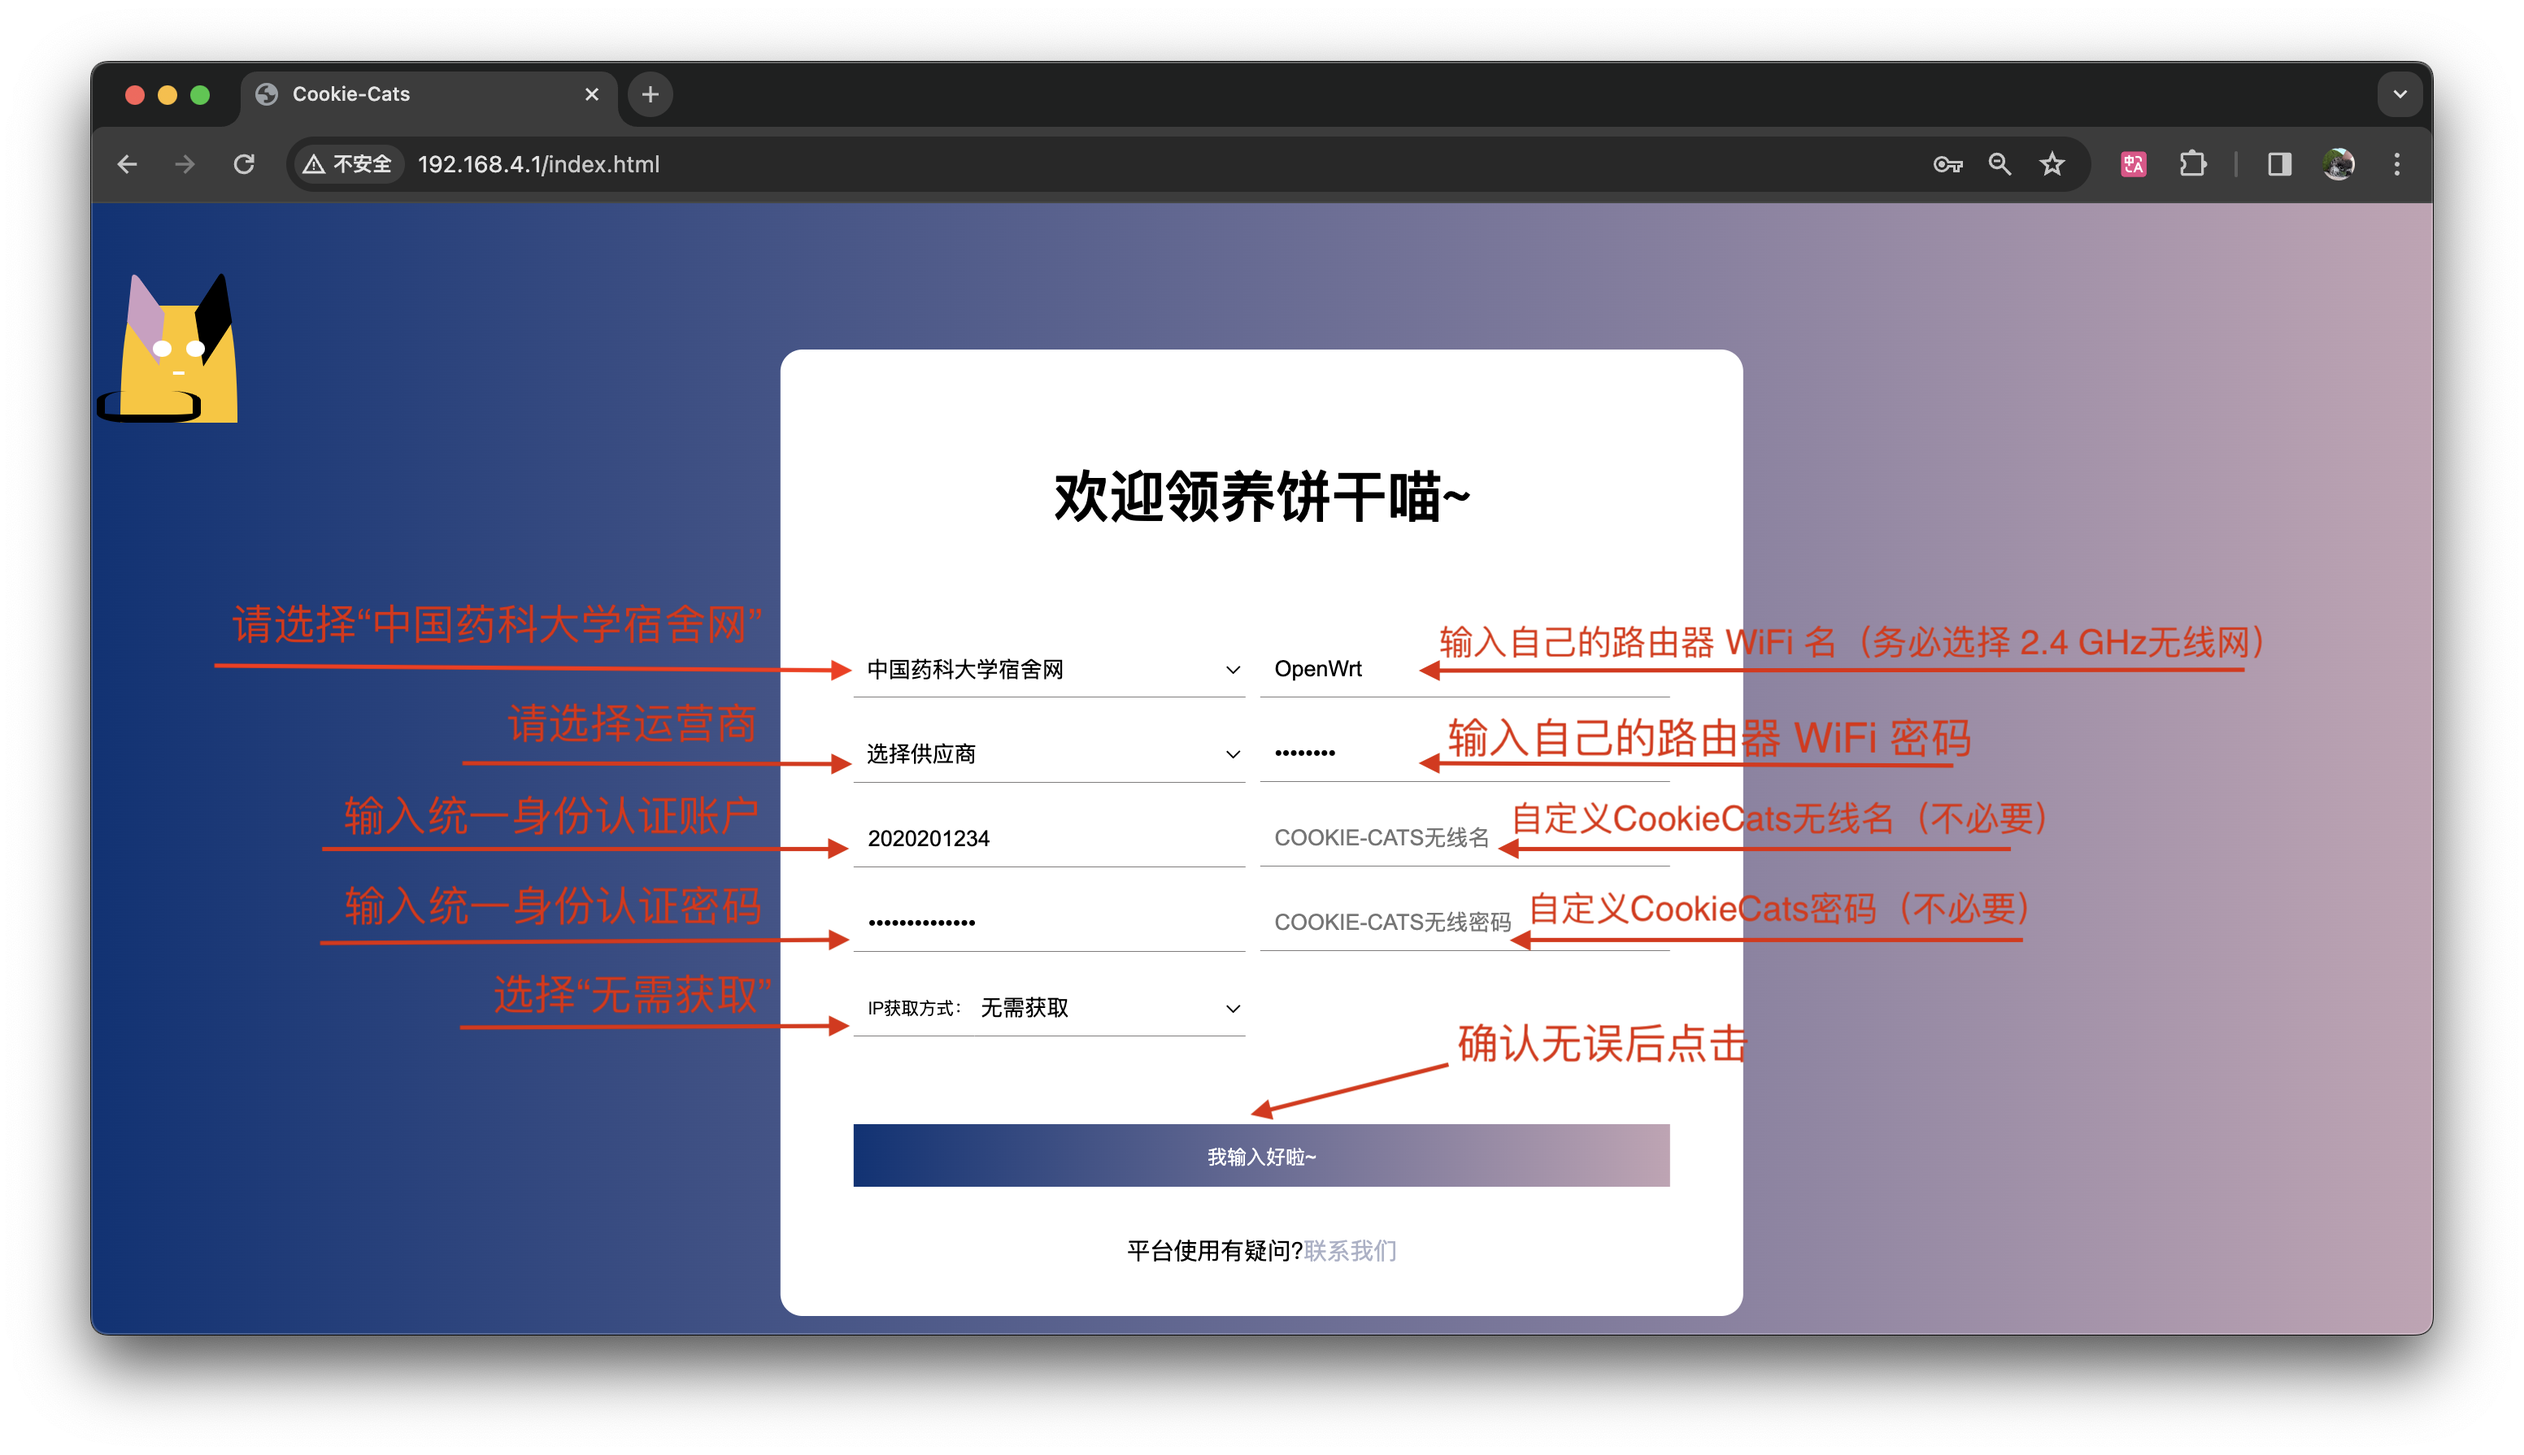
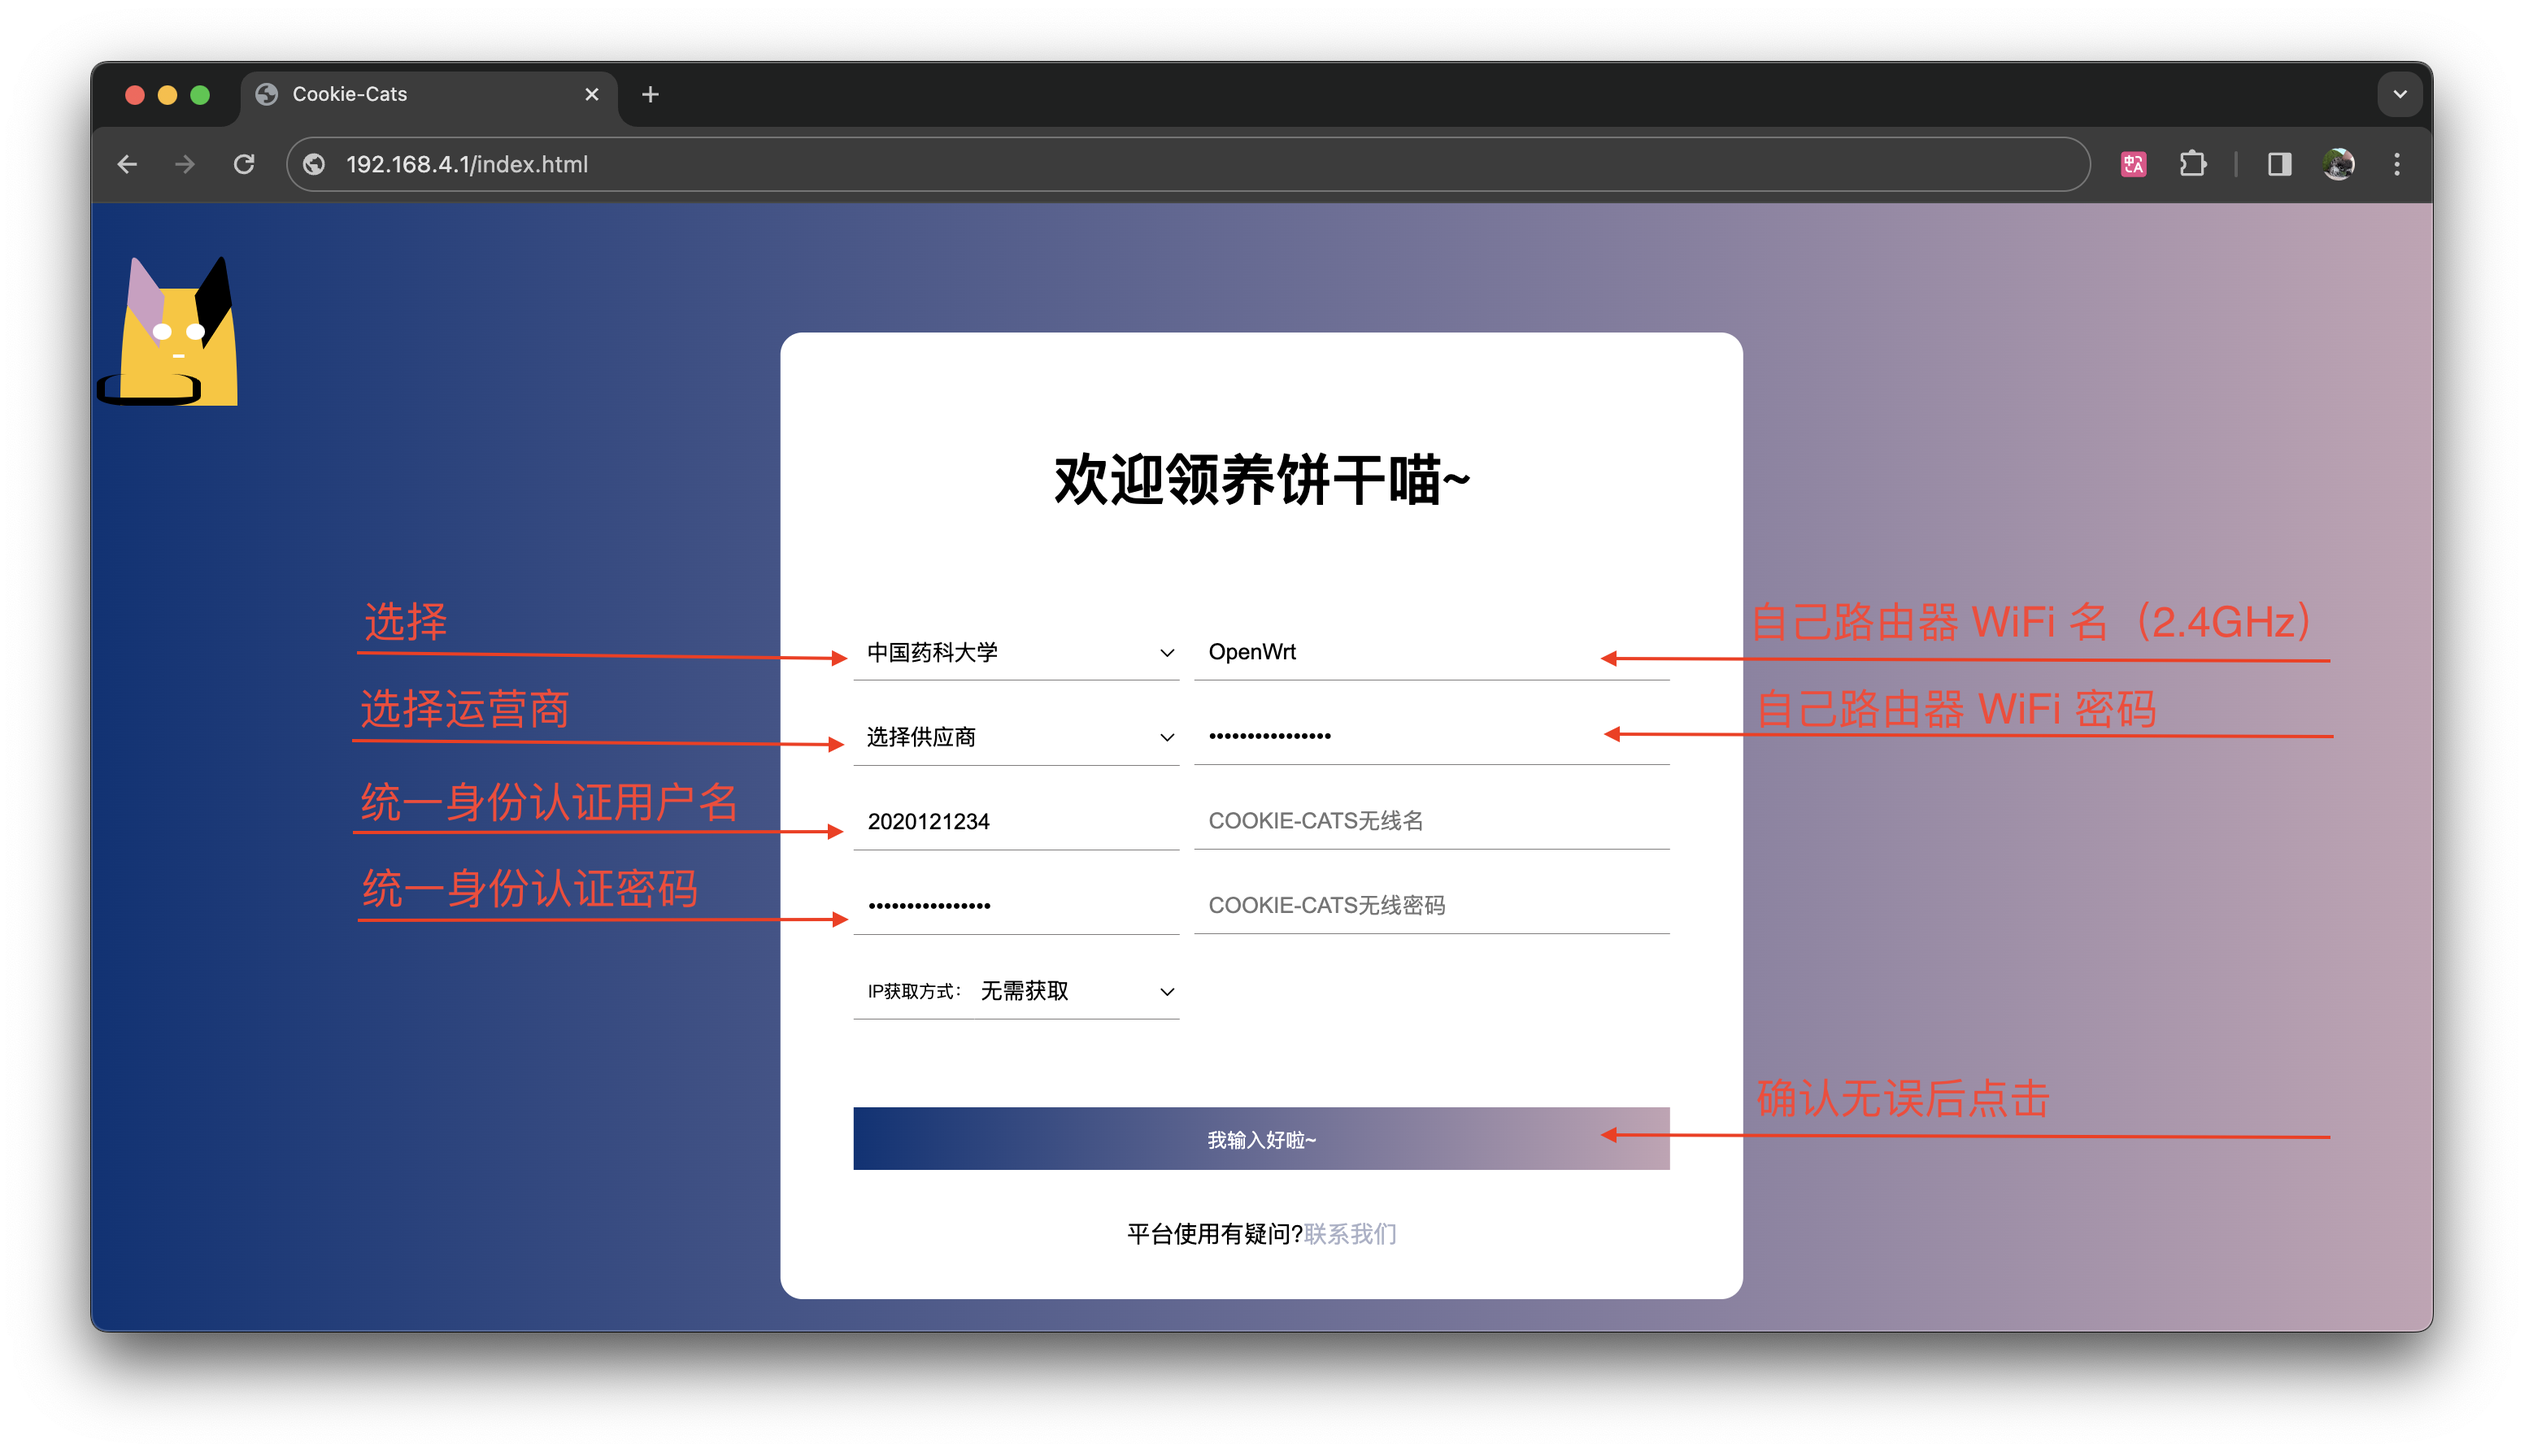
将中国药科大学宿舍网/公共网合并；改用CPU短名称

diff --git a/Cookie-Cats/auth.cpp b/Cookie-Cats/auth.cpp
@@ -73,41 +73,35 @@ String ICACHE_FLASH_ATTR getDrcomIp(String apiURL, WiFiClient &wifiClient) {
   return IP;
 }
 
-// 中国药科大学公共网
-bool ICACHE_FLASH_ATTR authChinaPharmaceuticalUniversityPublic(Configuration &config, WiFiClient &wifiClient) {
-  // 获取 IP
-  String IP;
-  if (config.IP_Obtain_Method.first == "unnecessary") {  // 如果设置为 unnecessary，则从 Drcom 的 API 获取
-    String apiURL = "http://192.168.199.21/drcom/chkstatus?callback=dr1002";
-    IP = getDrcomIp(apiURL, wifiClient);
-  } else {
-    IP = config.IP_Obtain_Method.second;
+// 中国药科大学
+bool ICACHE_FLASH_ATTR authCPU(Configuration &config, WiFiClient &wifiClient) {
+  if (config.carrier == "SchoolNetwork") {                 // 中国药科大学校园网
+    String IP;                                             // 获取 IP
+    if (config.IP_Obtain_Method.first == "unnecessary") {  // 如果设置为 unnecessary，则从 Drcom 的 API 获取
+      String apiURL = "http://192.168.199.21/drcom/chkstatus?callback=dr1002";
+      IP = getDrcomIp(apiURL, wifiClient);
+    } else {
+      IP = config.IP_Obtain_Method.second;
+    }
+    // 构造认证 URL
+    String authURL = "http://192.168.199.21:801/eportal/?c=Portal&a=login&callback=dr1004&login_method=1&user_account=,0," + config.username + "&user_password=" + config.password + "&wlan_user_ip=" + IP + "&wlan_user_mac=000000000000&jsVersion=3.3.3&v=10379";
+    return drcomWebAuth(authURL, wifiClient);
+  } else {                                                      // 中国药科大学宿舍网
+    String carrier;                                             // 转换运营商到认证格式
+    if (config.carrier == "ChinaTelecom") carrier = "telecom";  // 已在读取 config 时做过判断，carrier 只能为 "ChinaTelecom", "ChinaUnicom", "ChinaMobile", "SchoolNetwork", ""
+    else if (config.carrier == "ChinaUnicom") carrier = "unicom";
+    else if (config.carrier == "ChinaMobile") carrier = "cmcc";
+    String authURL = "http://172.17.253.3/drcom/login?callback=dr1003&DDDDD=" + config.username + "%40" + carrier + "&upass=" + config.password + "&0MKKey=123456&R1=0&R2=&R3=0&R6=1&para=00&v6ip=&terminal_type=2&lang=zh-cn&jsVersion=4.1.3&v=5336&lang=zh";
+    return drcomWebAuth(authURL, wifiClient);
   }
-  // 构造认证 URL
-  String authURL = "http://192.168.199.21:801/eportal/?c=Portal&a=login&callback=dr1004&login_method=1&user_account=,0," + config.username + "&user_password=" + config.password + "&wlan_user_ip=" + IP + "&wlan_user_mac=000000000000&jsVersion=3.3.3&v=10379";
-  return drcomWebAuth(authURL, wifiClient);
-}
-
-// 中国药科大学宿舍网
-bool ICACHE_FLASH_ATTR authChinaPharmaceuticalUniversityDormitory(Configuration &config, WiFiClient &wifiClient) {
-  String carrier;                                             // 转换运营商到认证格式
-  if (config.carrier == "ChinaTelecom") carrier = "telecom";  // 已在读取 config 时做过判断，carrier 只能为 "ChinaTelecom", "ChinaUnicom", "ChinaMobile", ""
-  else if (config.carrier == "ChinaUnicom") carrier = "unicom";
-  else if (config.carrier == "ChinaMobile") carrier = "cmcc";
-
-  // 构造认证 URL
-  String authURL = "http://172.17.253.3/drcom/login?callback=dr1003&DDDDD=" + config.username + "%40" + carrier + "&upass=" + config.password + "&0MKKey=123456&R1=0&R2=&R3=0&R6=1&para=00&v6ip=&terminal_type=2&lang=zh-cn&jsVersion=4.1.3&v=5336&lang=zh";
-  return drcomWebAuth(authURL, wifiClient);
 }
 
 // 自动认证
 // 警告：使用前需要判断 school、username、password 是否为空
 bool auth(Configuration &config, WiFiClient &wifiClient) {
   Serial.println(F("Starting authoriation..."));
-  if (config.school == "ChinaPharmaceuticalUniversityDormitory") {  // 中国药科大学宿舍网
-    return authChinaPharmaceuticalUniversityDormitory(config, wifiClient);
-  } else if (config.school == "ChinaPharmaceuticalUniversityPublic") {  // 中国药科大学公共网
-    return authChinaPharmaceuticalUniversityPublic(config, wifiClient);
+  if (config.school == "CPU") {  // 中国药科大学
+    return authCPU(config, wifiClient);
   } else {
     return false;
   }

diff --git a/Cookie-Cats/functions.cpp b/Cookie-Cats/functions.cpp
@@ -216,14 +216,14 @@ void ICACHE_FLASH_ATTR readConfigurationFromFile(File& file, Configuration& conf
 
   // 运营商
   if (config.containsKey("carrier")) {
-    vector<String> Carriers = { "ChinaTelecom", "ChinaUnicom", "ChinaMobile" };
+    vector<String> Carriers = { "ChinaTelecom", "ChinaUnicom", "ChinaMobile", "SchoolNetwork" };
     const char* carrier = (const char*)config["carrier"];
 
     auto it = find(Carriers.begin(), Carriers.end(), carrier);  // 遍历运营商列表
     if (it != Carriers.end()) {                                 // 如果找到了元素
       configuration.carrier = carrier;
     } else {  // 如果没有找到元素
-      Serial.println(F("Carrier not set or wrong set. Carrier could only be one of ChinaTelecom, ChinaUnicom, ChinaMobile."));
+      Serial.println(F("Carrier not set or wrong set. Carrier could only be one of ChinaTelecom, ChinaUnicom, ChinaMobile, SchoolNetwork."));
     }
   } else {
     Serial.println(F("No carrier found in config.json"));
@@ -231,11 +231,31 @@ void ICACHE_FLASH_ATTR readConfigurationFromFile(File& file, Configuration& conf
 
   // 学校
   if (config.containsKey("school")) {
-    vector<String> Schools = { "ChinaPharmaceuticalUniversityDormitory", "ChinaPharmaceuticalUniversityPublic" };
-    const char* school = (const char*)config["school"];
+    vector<String> Schools = { "CPU" };
+    String school = (const char*)config["school"];
+
+    // --------------------------------------------------------------------------------------------------------------------------------
+    /*
+    兼容代码：
+    PIONEER_0.1_alpha_prerelease_016 及以前版本配置文件此选项包含 ChinaPharmaceuticalUniversityDormitory 或 ChinaPharmaceuticalUniversityPublic
+    之后版本这两个选项均指向 CPU
+    此兼容代码可能在 PIONEER_0.1_alpha 版本去除
+    */
+    if ((school == "ChinaPharmaceuticalUniversityDormitory") || (school == "ChinaPharmaceuticalUniversityPublic")) {
+      Serial.println(F("Old config found. Automatic conversion to the new format."));
+      school = "CPU";
+      config["school"] = "CPU";
+      File configFile = LittleFS.open("/config.json", "w");
+      serializeJson(config, configFile);  // 写入新配置
+      configFile.close();
+    }
+    // --------------------------------------------------------------------------------------------------------------------------------
 
     auto it = find(Schools.begin(), Schools.end(), school);  // 遍历支持的学校列表
     if (it != Schools.end()) {                               // 如果找到了元素
+      Serial.print(F("Set school into: "));
+      Serial.print(school);
+      Serial.println();
       configuration.school = school;
     } else {  // 如果没有找到元素
       Serial.println(F("School not set or unsupported."));

diff --git a/Cookie-Cats/webpages.cpp b/Cookie-Cats/webpages.cpp
@@ -250,14 +250,14 @@ String ICACHE_FLASH_ATTR webPages(String &page) {
                     <div class="form-wrapper">
                         <select class="custom-select" name="school" id="school">
                             <option value="" selected>选择学校</option>
-                            <option value="ChinaPharmaceuticalUniversityDormitory">中国药科大学宿舍网</option>
-                            <option value="ChinaPharmaceuticalUniversityPublic">中国药科大学公共网</option>
+                            <option value="CPU">中国药科大学</option>
                         </select>
                         <select class="custom-select" name="carrier" id="carrier">
                             <option value="" selected>选择供应商</option>
                             <option value="ChinaMobile">中国移动</option>
                             <option value="ChinaUnicom">中国联通</option>
                             <option value="ChinaTelecom">中国电信</option>
+                            <option value="SchoolNetwork">校园网</option>
                         </select>
                     </div>
                     <div class="form-wrapper">

diff --git a/Cookie-Cats/structures.h b/Cookie-Cats/structures.h
@@ -13,12 +13,11 @@ public:
   String username;
   String password;
   // 运营商
-  // 只能为 ChinaTelecom, ChinaUnicom, ChinaMobile 其一
+  // 只能为 ChinaTelecom, ChinaUnicom, ChinaMobile, SchoolNetwork 其一
   String carrier;  // 运营商
   // 学校
   // 目前支持的选项：
-  // * ChinaPharmaceuticalUniversityDormitory
-  // * ChinaPharmaceuticalUniversityPublic
+  // * CPU（中国药科大学）
   String school;
   // IP 获取方式
   // IP_Obtain_Method: IP_Obtain_Method_Content
